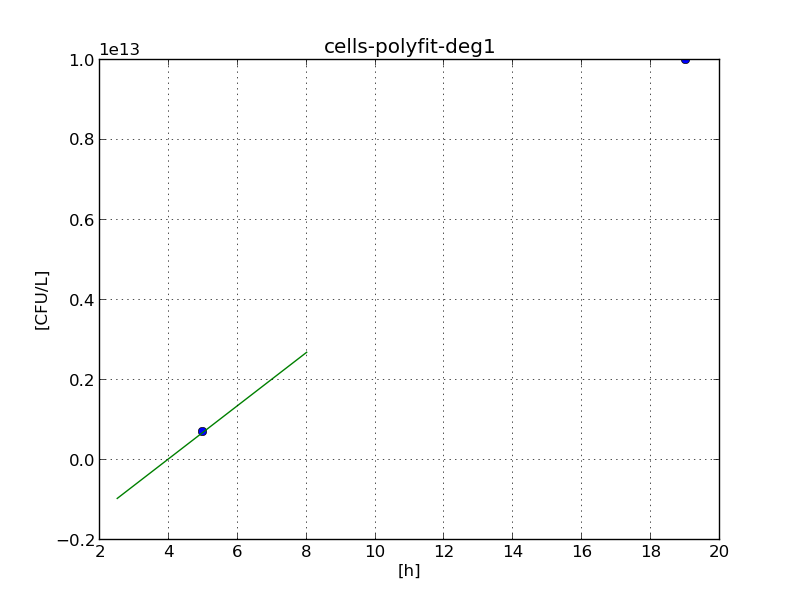
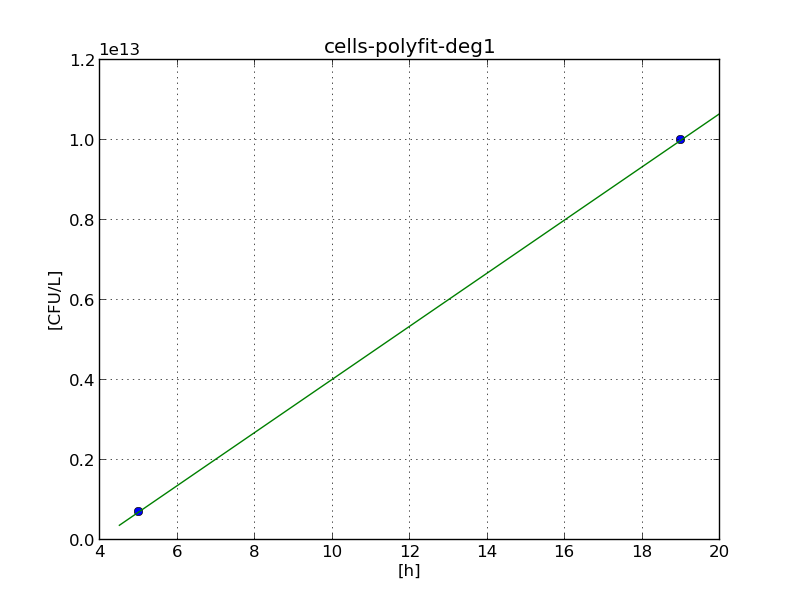
mol to molecule bug fixed

diff --git a/scripts/calc-speeds.py b/scripts/calc-speeds.py
@@ -24,8 +24,8 @@ avogadro  = 6.02214129e23
 
 CFU       = unit("CFU",       0,              "colony-forming unit")
 OD_unit   = unit("OD",        0,              "optical density unit")
-molecule  = unit("molecule", mol / avogadro )
-ml        = unit("ml",       10**-3 * L,     "milliliter")
+molecule  = unit("molecule",  mol / avogadro )
+ml        = unit("ml",        10**-3 * L,     "milliliter")
 #ul        = unit("ul",       10**-6 * L,     "microliter")
 
 possible_unit_expressions = { s, molecule/L, CFU/L, OD_unit, kg/L }
@@ -40,7 +40,8 @@ def convert_units(num):
       pass
     else:
       if res.strUnit() == '[kg/L]':
-        return (molecule/L) * (res.asNumber() * mols_in_kg)
+        res = (mol/L) * (res.asNumber() * mols_in_kg)
+        return res.asUnit(molecule/L)
       else:
         return res
 
@@ -48,8 +49,10 @@ def convert_units(num):
   assert(False)
 
 time_unit = convert_units(s)
-from_time = convert_units(2.5*h)
-to_time = convert_units(8.0*h)
+#from_time = convert_units(2.5*h)
+from_time = convert_units(4.5*h)
+#to_time = convert_units(8.0*h)
+to_time = convert_units(20.0*h)
 time_steps = 300
 grid = time_unit * np.linspace(from_time.asNumber(), to_time.asNumber(), time_steps)
 
@@ -155,6 +158,10 @@ def process():
   # useless
   extMcC_inact        = extract('extMcC_inact',         1)
   intMcC_inact        = extract('intMcC_inact',         1)
+  extMcC_inact        = extMcC_inact / cells
+  intMcC_inact        = intMcC_inact / cells
+  myplot(extMcC_inact, 'extMcC_WT')
+  myplot(intMcC_inact, 'intMcC_WT')
 
   try:
     extMcC_WT           = extMcC_WT / cells
